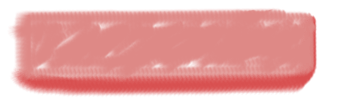
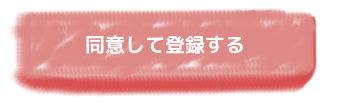
初めての方はこちら画面の登録ボタン修正

Changed region(s): [[0.2353, 0.3333, 0.7353, 0.5]]

diff --git a/e_co/src/main/resources/templates/registration.html b/e_co/src/main/resources/templates/registration.html
@@ -95,10 +95,7 @@
 	            <p style="font-size: 12px;">※弟妹の登録はログイン後のプロフィール編集から行ってください</p>
 	            <div class="start_wrap"><a href="search_index.html" th:href="@{/search_index.html}"><div class="start"><div class="start_text">同意して登録する</div></div></a></div>
 				-->
-	            <div class="start">
-	            <div class="registration">同意して登録する</div>
 	            <input class="registration_text" src="../img/login/start.png" type="image" alt="同意して登録する"/>
-	            </div>
             </form>
     	</div>
     </div>

diff --git a/e_co/src/main/resources/static/css/common.css b/e_co/src/main/resources/static/css/common.css
@@ -154,11 +154,6 @@ body{
 	background-repeat: no-repeat;
 	background-position: center center;
 }
-.start:hover{
-	position:relative;
-	top:3px;
-	left:3px;
-}
 .start{
 	margin-left: 75px;
 }
@@ -193,6 +188,16 @@ body{
 	text-decoration: none;
 	font-size: 28px;
 }
+.registration_text:hover {
+	position:relative;
+	top:3px;
+	left:3px;
+	cursor: pointer;
+	font-family: myfont;
+	text-decoration: none;
+	font-size: 28px;
+}
+
 
 /*-------------- search --------------*/  
 /*-------- header --------*/  
